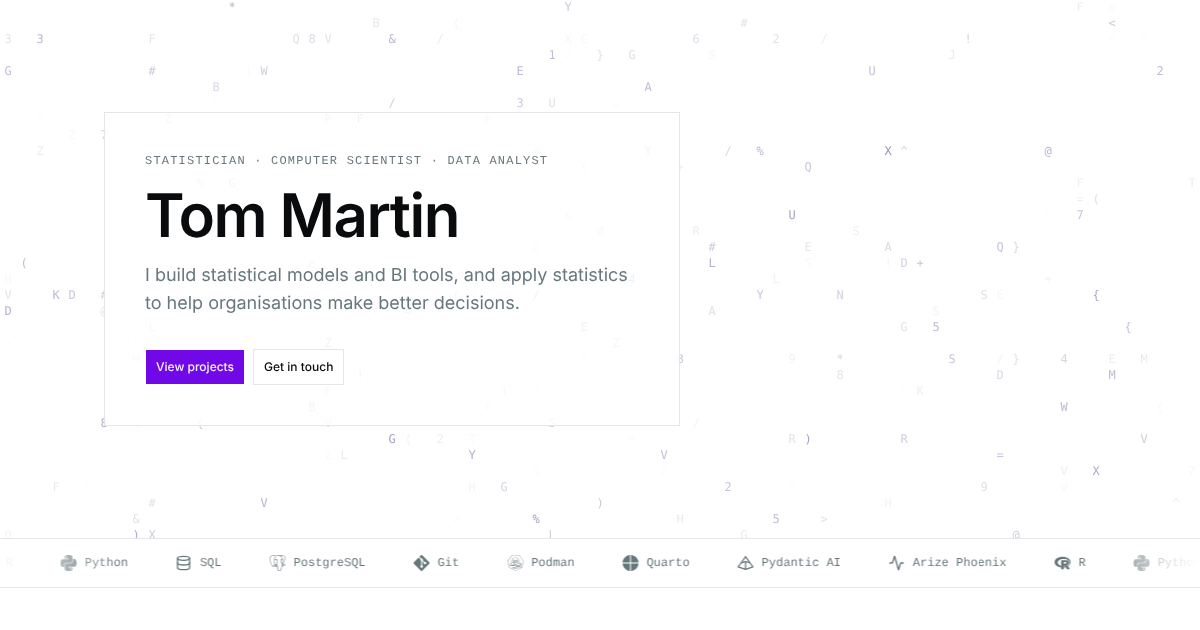
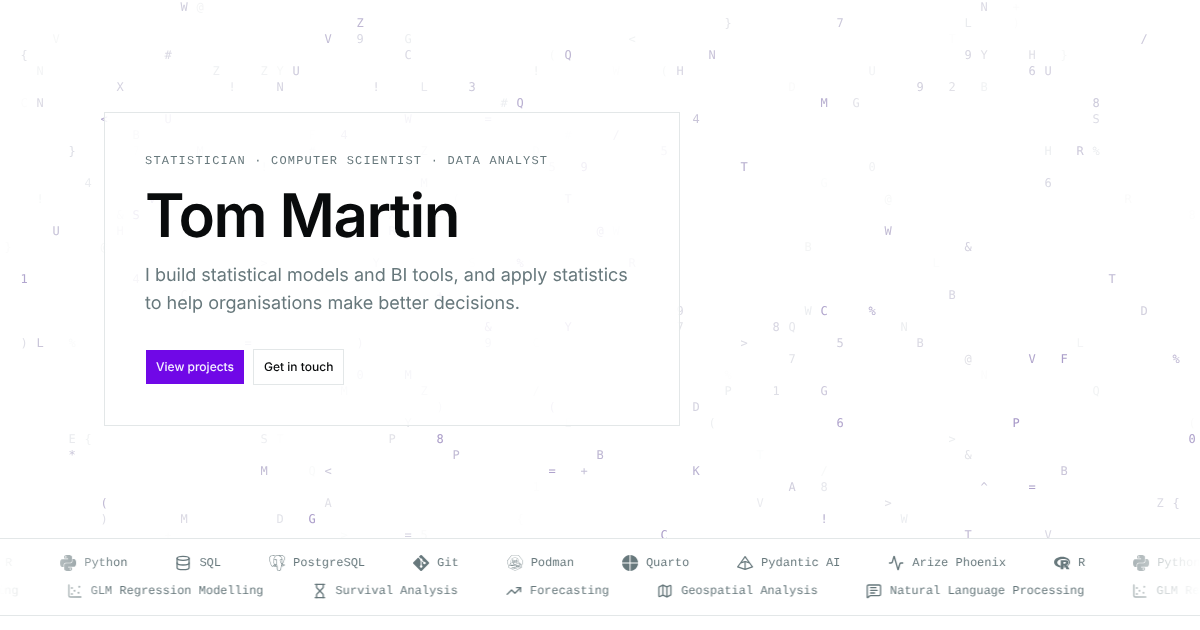
Add a methods row to the skills ticker
- Second row (GLM regression, survival analysis, forecasting, geospatial, NLP) scrolls the opposite way
- Render four copies per row so wide screens never show a gap before the loop
- Refresh the link preview image

Claude-Session: https://claude.ai/code/session_011BfJ8UNJMh6vuUFKG2n3Mp

diff --git a/src/data.ts b/src/data.ts
@@ -1,4 +1,4 @@
-import { Activity, Database } from "lucide-react"
+import { Activity, ChartScatter, Database, Hourglass, Map, MessageSquareText, TrendingUp } from "lucide-react"
 
 // Site content, moved over from the old Quarto site (Gippers/personalWebsite).
 
@@ -64,4 +64,12 @@ export const skills: { name: string; icon: string | typeof Database }[] = [
   { name: "Quarto", icon: "simple-icons:quarto" },
   { name: "Pydantic AI", icon: "simple-icons:pydantic" },
   { name: "Arize Phoenix", icon: Activity },
+]
+
+export const methods: typeof skills = [
+  { name: "GLM Regression Modelling", icon: ChartScatter },
+  { name: "Survival Analysis", icon: Hourglass },
+  { name: "Forecasting", icon: TrendingUp },
+  { name: "Geospatial Analysis", icon: Map },
+  { name: "Natural Language Processing", icon: MessageSquareText },
 ]
